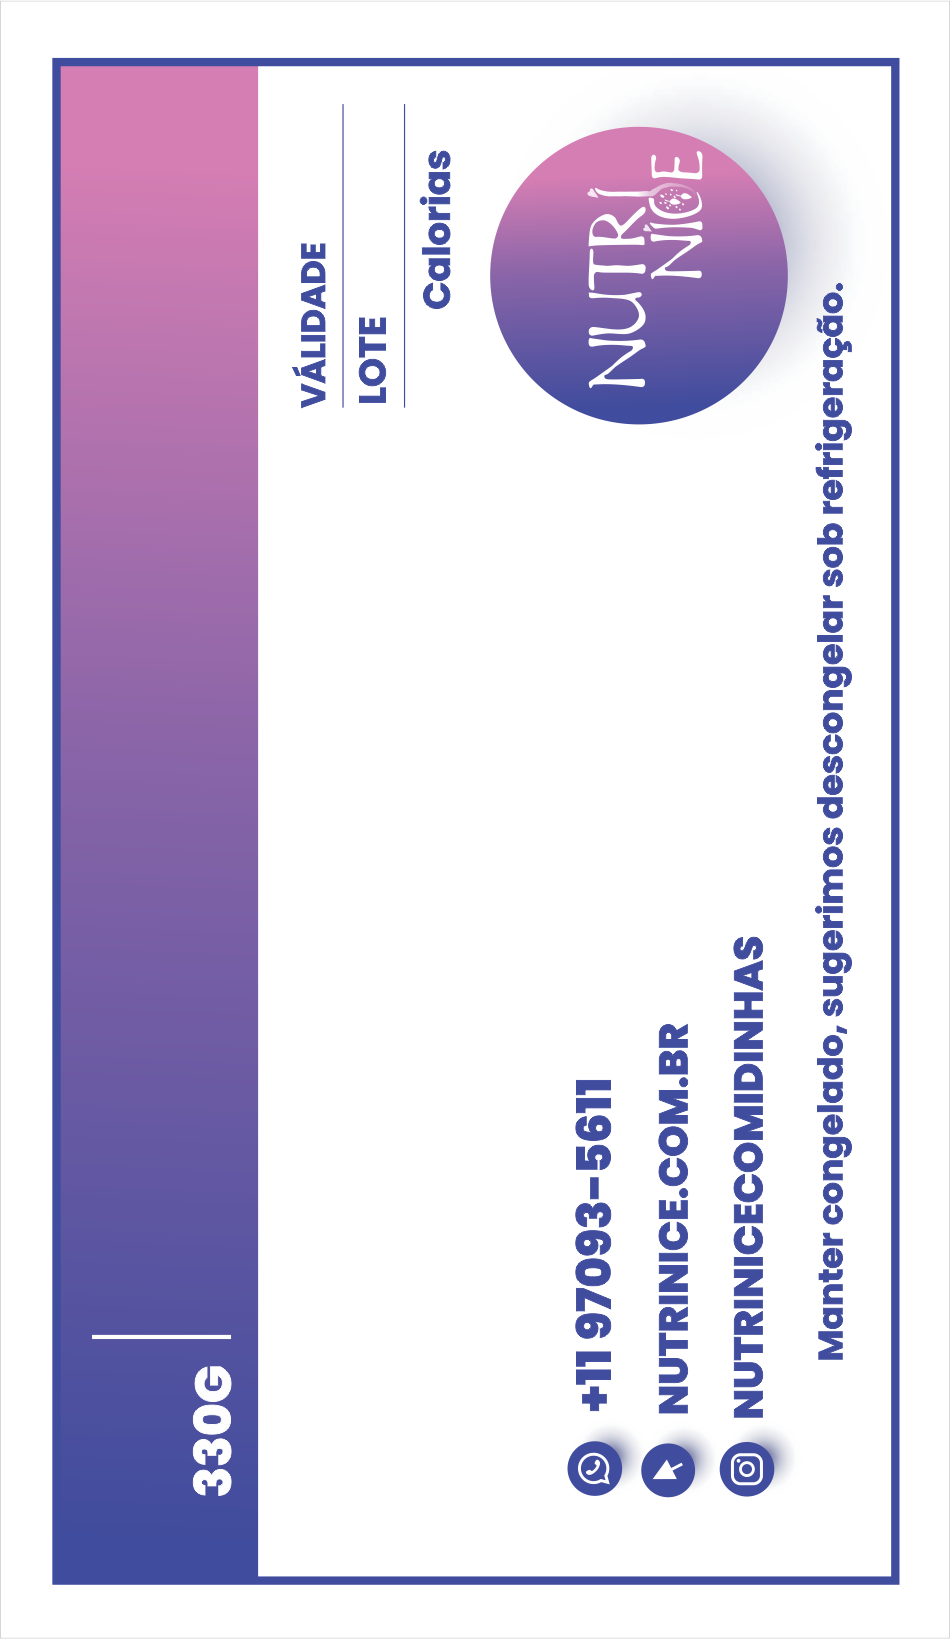
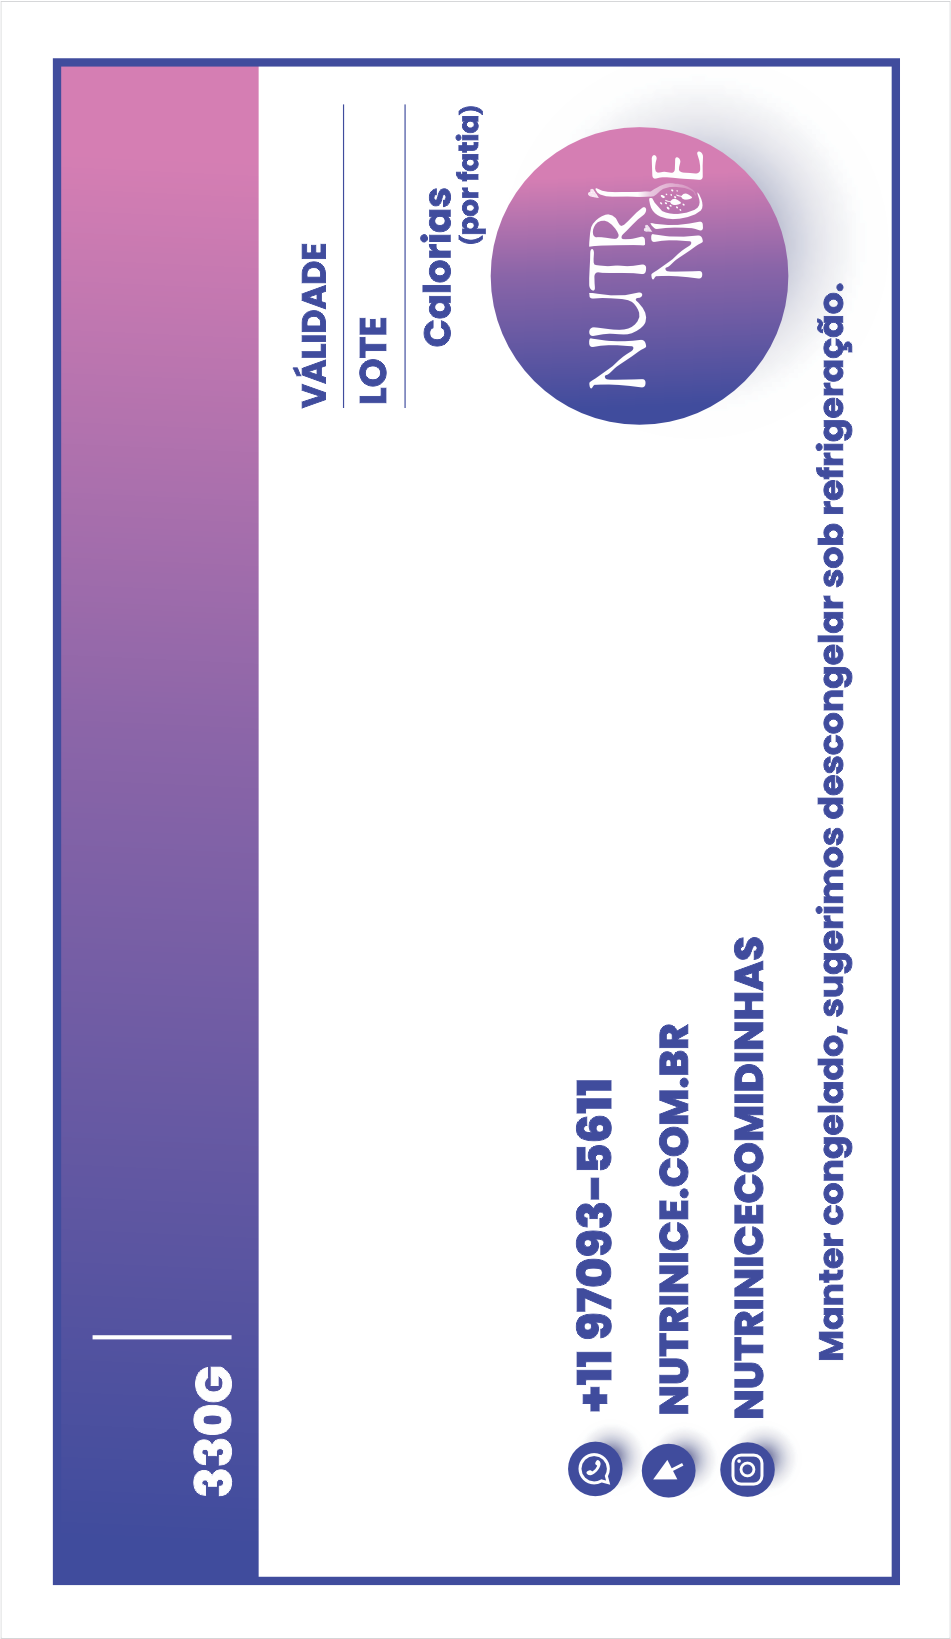
updated database functionality

diff --git a/src/main/java/com/joao/dias/models/Sheet.java b/src/main/java/com/joao/dias/models/Sheet.java
@@ -24,12 +24,12 @@ public class Sheet {
     private final int descriptionOffsetX = 335;
     private final int descriptionOffsetY = 1500;
     private final int numberOffsetX = 165;
-    private final int numberOffsetY = 1480;
+    private final int numberOffsetY = 1500;
     private final int KCalOffsetX = 450;
-    private final int KcalOffsetY = 420;
-    private final int valOffSetX = 322;
+    private final int KcalOffsetY = 400;
+    private final int valOffSetX = 323;
     private final int valOffSetY = 210;
-    private final int lotOffSetX = 390;
+    private final int lotOffSetX = 385;
     private final int lotOffSetY = 290;
     private final int nameTagLateralGap = 5;
 
@@ -160,7 +160,9 @@ public class Sheet {
         Font font = FileController.getRotatedPoppins().deriveFont(100f);
         graphics2D.setFont(font);
         graphics2D.setColor(Color.WHITE);
-        graphics2D.drawString(String.format("%02d", tag.getTagNumber()), currentXPosition + numberOffsetX, currentYPosition + numberOffsetY);
+        if(tag.getTagNumber() >= 10)
+            graphics2D.drawString(String.format("%02d", tag.getTagNumber()), currentXPosition + numberOffsetX, currentYPosition + numberOffsetY - 20);
+        else graphics2D.drawString(String.format("%02d", tag.getTagNumber()), currentXPosition + numberOffsetX, currentYPosition + numberOffsetY);
     }
 
     public void placeTagKCal (Tag tag, Graphics2D graphics2D){

diff --git a/src/main/java/com/joao/dias/repositories/tagInfoRepository.java b/src/main/java/com/joao/dias/repositories/tagInfoRepository.java
@@ -16,7 +16,7 @@ import java.util.Iterator;
 public class tagInfoRepository {
     public String genericStringFinder(double id, int col) {
         try{
-            File file = new File("src/data/test.xlsx");
+            File file = new File("src/data/db.xlsx");
             FileInputStream fis = new FileInputStream(file);
             XSSFWorkbook wb = new XSSFWorkbook(fis);
             XSSFSheet sheet = wb.getSheetAt(0);
@@ -36,7 +36,7 @@ public class tagInfoRepository {
 
     public double genericDoubleFinder(double id, int col) {
         try{
-            File file = new File("src/data/test.xlsx");
+            File file = new File("src/data/db.xlsx");
             FileInputStream fis = new FileInputStream(file);
             XSSFWorkbook wb = new XSSFWorkbook(fis);
             XSSFSheet sheet = wb.getSheetAt(0);
